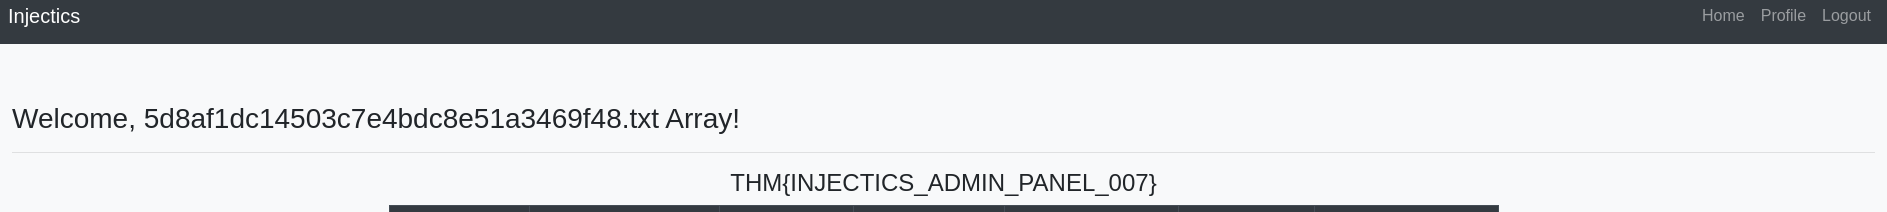
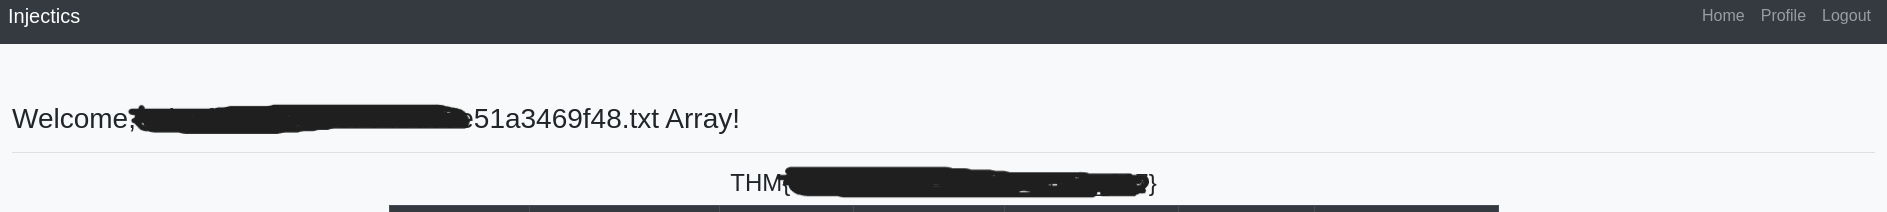
fix: redacted flags

Changed region(s): [[0.3996, 0.7642, 0.6147, 0.934], [0.0615, 0.4811, 0.2766, 0.6509]]

diff --git a/writeups/TryHackMe/Room/Archangel/writeup.md b/writeups/TryHackMe/Room/Archangel/writeup.md
@@ -35,7 +35,7 @@ Next, let's add this domain to our `/etc/hosts` file and explore the web applica
 echo "TARGET_IP   mafialive.thm" >> /etc/hosts
 ```
 
-Now, let's visit `mafialive.thm` in our browser, and as soon as we do we get our Flag 1 - `thm{f0und_th3_r1ght_h0st_n4m3}`.
+Now, let's visit `mafialive.thm` in our browser, and as soon as we do we get our Flag 1 - `thm{*redacted*}`.
 
 ![HostName](./Resources/hostname.png)
 
@@ -81,10 +81,11 @@ It looks like there are some filtering protections on the target. We need to get
 
 After trying various PHP filters, we eventually get:
 
-```
+```bash
 http://mafialive.thm/test.php?view=php://filter/convert.base64-encode/resource=/var/www/html/development_testing/test.php
 
[2 lines of base64/hex data omitted]
+---SNIP---
 ```
 
 Let's base64 decode to get the source script:
@@ -100,7 +101,7 @@ Let's base64 decode to get the source script:
     </button></a> <a href="/test.php?view=/var/www/html/development_testing/mrrobot.php"><button id="secret">Here is a button</button></a><br>
         <?php
 
-	    //FLAG: thm{explo1t1ng_lf1}
+	    //FLAG: thm{REDACTED}
 
             function containsStr($str, $substr) {
                 return strpos($str, $substr) !== false;
@@ -120,7 +121,7 @@ Let's base64 decode to get the source script:
 </html>
 ```
 
-From the source code, we also get our next flag - `thm{explo1t1ng_lf1}`.
+From the source code, we also get our next flag - `thm{REDACTED}`.
 
 ### Filter Bypass
 
@@ -200,7 +201,7 @@ python3 -c 'import pty; pty.spawn("/bin/bash")'
 
 ## User Flag
 
-We navigate to the `/home/archangel` directory and find `user.txt`. That is the user flag - `thm{lf1_t0_rc3_1s_tr1cky}`.
+We navigate to the `/home/archangel` directory and find `user.txt`. That is the user flag - `thm{REDACTED}`.
 
 ![User Flag](./Resources/userflag.png)
 
@@ -293,10 +294,10 @@ drwxr-xr-x 6 archangel archangel  4096 Nov 20  2020 ..
 -rw-r--r-- 1 root      root         49 Nov 19  2020 user2.txt
 archangel@ubuntu:~/secret$ cat user2.txt
 cat user2.txt
-thm{h0r1zont4l_pr1v1l3g3_2sc4ll4t10n_us1ng_cr0n}
+thm{REDACTED}
 ```
 
-That's our second user flag - `thm{h0r1zont4l_pr1v1l3g3_2sc4ll4t10n_us1ng_cr0n}`.
+That's our second user flag - `thm{REDACTED}`.
 
 ### Vertical Escalation (SUID Binary)
 
@@ -364,14 +365,14 @@ root@ubuntu:~/secret#
 
 ## Root Flag
 
-Finally, let's get the `/root/root.txt` flag - `thm{p4th_v4r1abl3_expl01tat1ion_f0r_v3rt1c4l_pr1v1l3g3_3sc4ll4t10n}`
+Finally, let's get the `/root/root.txt` flag - `thm{REDACTED}`
 
 ```bash
 root@ubuntu:~/secret# cd /root
 cd /root
 root@ubuntu:/root# cat root.txt
 cat root.txt
-thm{p4th_v4r1abl3_expl01tat1ion_f0r_v3rt1c4l_pr1v1l3g3_3sc4ll4t10n}
+thm{REDACTED}
 root@ubuntu:/root#
 ```
 
@@ -402,7 +403,7 @@ Challenge solved!
 
 2. Find flag 1
 
-   **Ans.** *thm{f0und_th3_r1ght_h0st_n4m3}*
+   **Ans.** *thm{**redacted**}*
 
 3. Look for a page under development
 
@@ -410,18 +411,18 @@ Challenge solved!
 
 4. Find flag 2
 
-   **Ans.** *thm{explo1t1ng_lf1}*
+   **Ans.** *thm{**redacted**}*
 
 5. Get a shell and find the user flag
 
-   **Ans.** *thm{lf1_t0_rc3_1s_tr1cky}*
+   **Ans.** *thm{**redacted**}*
 
 ### Task 3 - Root the Machine
 
 1. Get User 2 flag
 
-   **Ans.** *thm{h0r1zont4l_pr1v1l3g3_2sc4ll4t10n_us1ng_cr0n}*
+   **Ans.** *thm{**redacted**}*
 
 2. Root the machine and find the root flag
 
-   **Ans.** *thm{p4th_v4r1abl3_expl01tat1ion_f0r_v3rt1c4l_pr1v1l3g3_3sc4ll4t10n}*
+   **Ans.** *thm{**redacted**}*

diff --git a/writeups/TryHackMe/Room/Injectics/writeup.md b/writeups/TryHackMe/Room/Injectics/writeup.md
@@ -77,10 +77,10 @@ User - dev@injectics.thm
 User - superadmin@injectics.thm
 
 Default credentials:
-| Email                    | Password             |
-| ------------------------ | -------------------- |
-| superadmin@injectics.thm | superSecurePasswd101 |
-| dev@injectics.thm        | devPasswd123         |
+| Email                    | Password   |
+| ------------------------ | ---------- |
+| superadmin@injectics.thm | <REDACTED> |
+| dev@injectics.thm        | <REDACTED> |
 ```
 
 Checking `composer.json` for vulnerabilities:
@@ -115,12 +115,12 @@ Using SQL injection to drop the users table:
 ; DROP TABLE users;
 ```
 
-Logging in as `superadmin@injectics.thm` with `superSecurePasswd101` and obtaining the first flag:
+Logging in as `superadmin@injectics.thm` with `<REDACTED>(password)` and obtaining the first flag:
 
 ![Flag 1](Resources/flag1.png)
 
 ```
-THM{INJECTICS_ADMIN_PANEL_007}
+THM{REDACTED}
 ```
 
 ## Server-Side Template Injection (SSTI)
@@ -173,7 +173,7 @@ Reading the flag:
 
 Final flag:
 ```liquid
-THM{5735172b6c147f4dd649872f73e0fdea}
+THM{REDACTED}
 ```
 
 ---

diff --git a/writeups/TryHackMe/Room/Publisher/writeup.md b/writeups/TryHackMe/Room/Publisher/writeup.md
@@ -132,7 +132,7 @@ Let's locate the user flag in the `/home` directory:
 
 ```bash
 www-data@41c976e507f8:/home/think$ cat user.txt
-fa229046d44eda6a3598c73ad96f4ca5
+<REDACTEDDDD>
 ```
 
 Great! We also notice a `.ssh` folder. Let's retrieve the `id_rsa` private key and attempt SSH login.
@@ -328,7 +328,7 @@ ls -la /tmp/rootbash
 rootbash-5.0# whoami
 root
 rootbash-5.0# cat /root/root.txt
-3a4225cc9e85709adda6ef55d6a4f2ca
+<REDACTEDDDD>
 ```
 
 ![Root Flag](./Resources/rootflag.png)
@@ -349,8 +349,8 @@ Challenge solved!
 
 1. **What is the user flag?**
 
-   **Ans.** `fa229046d44eda6a3598c73ad96f4ca5`
+   **Ans.** `REDACTED`
 
 2. **What is the root flag?**
 
-   **Ans.** `3a4225cc9e85709adda6ef55d6a4f2ca`
+   **Ans.** `REDACTED`
